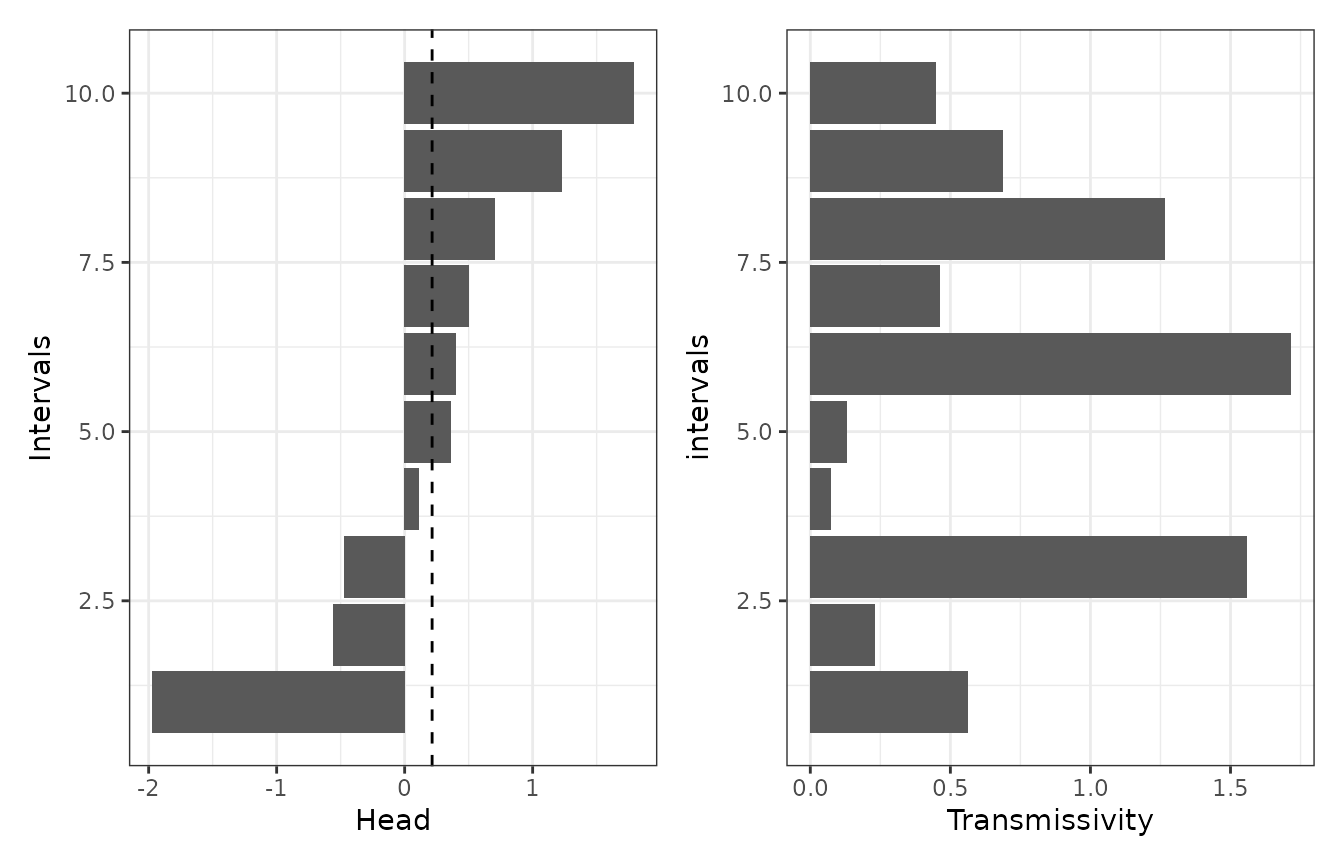
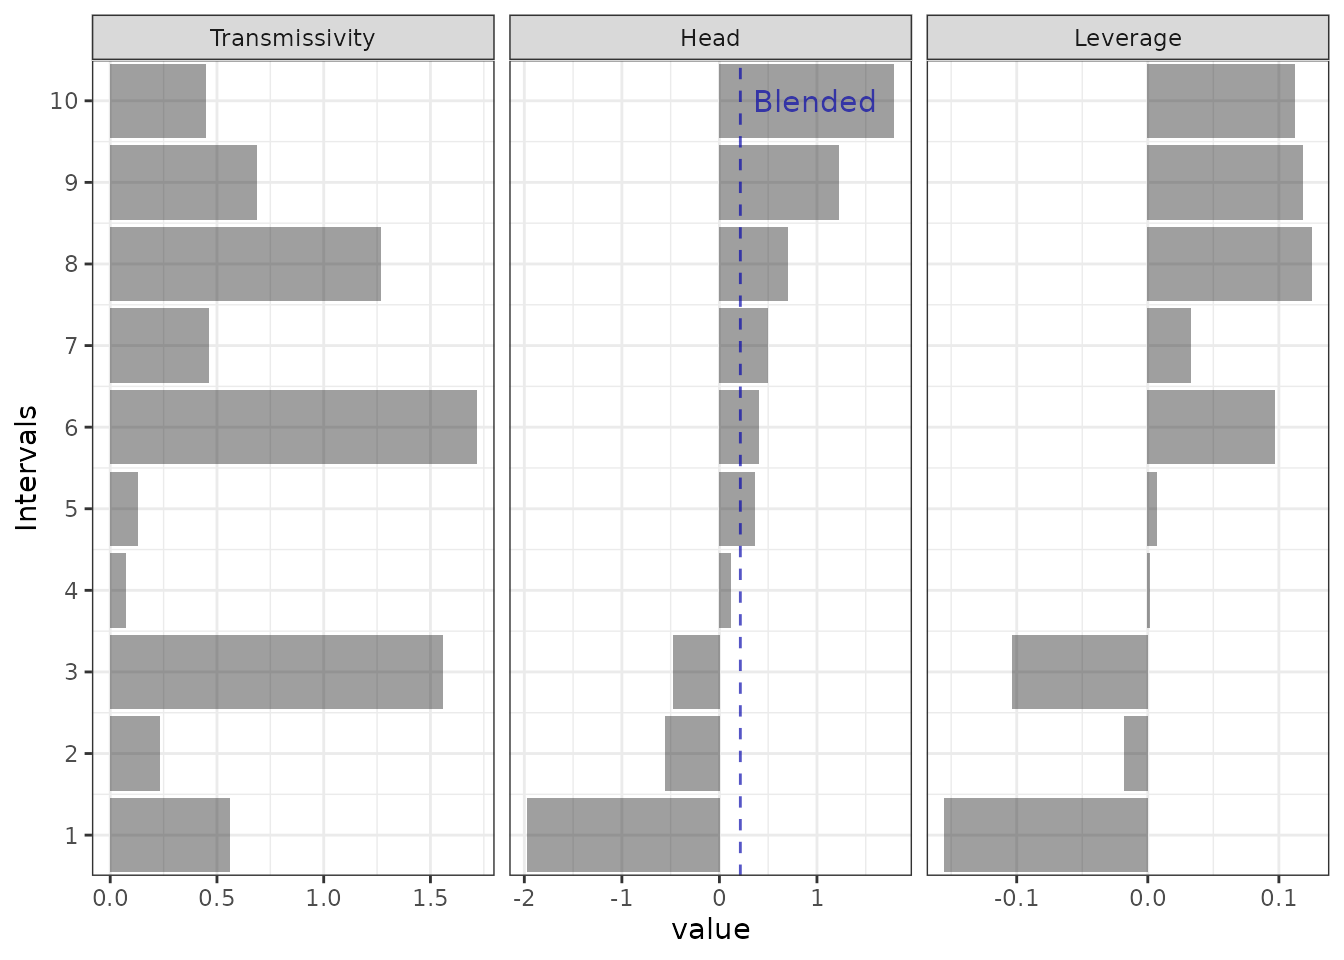
Built site for sokol: 0.0.1@1bd7e10

diff --git a/articles/sokol.html b/articles/sokol.html
@@ -73,14 +73,27 @@
 
     
     
-<div id="goal---solve-for-transmissivity-or-head-following-a-change-in-monitoring-interval" class="section level2">
+<div id="goal---estimate-the-relative-transmissivity-change-or-head" class="section level2">
 <h2 class="hasAnchor">
-<a href="#goal---solve-for-transmissivity-or-head-following-a-change-in-monitoring-interval" class="anchor"></a>Goal - Solve for transmissivity or head following a change in monitoring interval</h2>
+<a href="#goal---estimate-the-relative-transmissivity-change-or-head" class="anchor"></a>Goal - Estimate the relative transmissivity change or head</h2>
 <div id="transmissivity-solution" class="section level3">
 <h3 class="hasAnchor">
 <a href="#transmissivity-solution" class="anchor"></a>Transmissivity solution</h3>
 <p>Given (Sokol eq 6): The example will be a single unit where we add a new one.</p>
 <p><span class="math display">\[h_w = \frac{T_1 H_1}{T_1}\]</span> <span class="math display">\[h_w + \Delta h_w = \frac{T_1 H_1 + T_2 H_2}{T_1 + T_2}\]</span></p>
+<p>where:</p>
+<ul>
+<li>
+<span class="math inline">\(h_w\)</span> is the blended head for the shorter interval</li>
+<li>
+<span class="math inline">\(h_w + \Delta h_w\)</span> is the blended head for the larger interval</li>
+<li>
+<span class="math inline">\(T_1\)</span> is the transmissivity for the shorter interval</li>
+<li>
+<span class="math inline">\(T_1 + T_2\)</span> is the transmissivity for the larger interval</li>
+<li>
+<span class="math inline">\(H_2\)</span> is the head corresponding to the <span class="math inline">\(T_2\)</span> interval</li>
+</ul>
 <p>Multiply denominators:</p>
 <p><span class="math display">\[h_w T_1 = T_1 H_1\]</span> <span class="math display">\[h_w T_1 + h_w T_2 + \Delta h_w T_1 + \Delta h_w T_2 = T_1 H_1 + T_2 H_2\]</span></p>
 <p>Subtract first from second:</p>
@@ -99,7 +112,7 @@
 <div id="examples" class="section level2">
 <h2 class="hasAnchor">
 <a href="#examples" class="anchor"></a>Examples</h2>
-<p>Can we recover missing values?</p>
+<p>Can we recover missing values? In this example we test if we can recover the missing value for the <span class="math inline">\(10^th\)</span> interval.</p>
 <div class="sourceCode" id="cb1"><pre class="downlit sourceCode r">
 <code class="sourceCode R">
 <span class="kw"><a href="https://rdrr.io/r/base/library.html">library</a></span><span class="op">(</span><span class="va">sokol</span><span class="op">)</span>
@@ -107,7 +120,9 @@
 <span class="fu"><a href="https://rdrr.io/r/base/Random.html">set.seed</a></span><span class="op">(</span><span class="fl">123</span><span class="op">)</span>
 <span class="va">transmissivity</span> <span class="op">&lt;-</span> <span class="fu"><a href="https://rdrr.io/r/base/MathFun.html">abs</a></span><span class="op">(</span><span class="fu"><a href="https://rdrr.io/r/stats/Normal.html">rnorm</a></span><span class="op">(</span><span class="fl">10</span><span class="op">)</span><span class="op">)</span>
 <span class="va">head</span> <span class="op">&lt;-</span> <span class="fu"><a href="https://rdrr.io/r/base/sort.html">sort</a></span><span class="op">(</span><span class="fu"><a href="https://rdrr.io/r/stats/Normal.html">rnorm</a></span><span class="op">(</span><span class="fl">10</span><span class="op">)</span><span class="op">)</span>
-<span class="fu"><a href="../reference/plot_blended.html">plot_blended</a></span><span class="op">(</span><span class="va">transmissivity</span>, <span class="va">head</span><span class="op">)</span></code></pre></div>
+<span class="fu"><a href="../reference/plot_blended.html">plot_blended</a></span><span class="op">(</span><span class="va">transmissivity</span>, <span class="va">head</span><span class="op">)</span>
+<span class="co">#&gt; Warning: Removed 2 rows containing missing values (geom_hline).</span>
+<span class="co">#&gt; Warning: Removed 2 rows containing missing values (geom_text).</span></code></pre></div>
 <p><img src="sokol_files/figure-html/setup-1.png" width="672"></p>
 <div class="sourceCode" id="cb2"><pre class="downlit sourceCode r">
 <code class="sourceCode R"><span class="va">blended_1</span> <span class="op">&lt;-</span> <span class="fu"><a href="../reference/estimate_blended_head.html">estimate_blended_head</a></span><span class="op">(</span><span class="va">transmissivity</span><span class="op">[</span><span class="fl">1</span><span class="op">:</span><span class="fl">9</span><span class="op">]</span>, <span class="va">head</span><span class="op">[</span><span class="fl">1</span><span class="op">:</span><span class="fl">9</span><span class="op">]</span><span class="op">)</span>

diff --git a/reference/plot_blended.html b/reference/plot_blended.html
@@ -161,7 +161,7 @@ transmissivity and hydraulic head should be the same.</p>
 <span class='va'>head</span> <span class='op'>&lt;-</span> <span class='fu'><a href='https://rdrr.io/r/base/sort.html'>sort</a></span><span class='op'>(</span><span class='fu'><a href='https://rdrr.io/r/stats/Normal.html'>rnorm</a></span><span class='op'>(</span><span class='fl'>10</span><span class='op'>)</span><span class='op'>)</span>                          <span class='co'># decreasing head with depth</span>
 
 <span class='fu'>plot_blended</span><span class='op'>(</span><span class='va'>transmissivity</span>, <span class='va'>head</span><span class='op'>)</span>
-</div><div class='img'><img src='plot_blended-1.png' alt='' width='700' height='433' /></div></pre>
+</div><div class='output co'>#&gt; <span class='warning'>Warning: Removed 2 rows containing missing values (geom_hline).</span></div><div class='output co'>#&gt; <span class='warning'>Warning: Removed 2 rows containing missing values (geom_text).</span></div><div class='img'><img src='plot_blended-1.png' alt='' width='700' height='433' /></div></pre>
   </div>
   <div class="col-md-3 hidden-xs hidden-sm" id="pkgdown-sidebar">
     <nav id="toc" data-toggle="toc" class="sticky-top">

diff --git a/reference/sokol.html b/reference/sokol.html
@@ -125,6 +125,7 @@
 
     <p><strong>Maintainer</strong>: Jonathan Kennel <a href='mailto:jkennel@uoguelph.ca'>jkennel@uoguelph.ca</a> [translator]</p>
 <p>Other contributors:</p><ul>
+<li><p>Julie Zettl <a href='mailto:julie.zettl@g360group.org'>julie.zettl@g360group.org</a> [contributor]</p></li>
 <li><p>Beth Parker <a href='mailto:bparker@uoguelph.ca'>bparker@uoguelph.ca</a> [thesis advisor]</p></li>
 </ul>
 

diff --git a/authors.html b/authors.html
@@ -114,6 +114,10 @@
         </p>
       </li>
       <li>
+        <p><strong>Julie Zettl</strong>. Contributor. 
+        </p>
+      </li>
+      <li>
         <p><strong>Beth Parker</strong>. Thesis advisor. 
         </p>
       </li>
